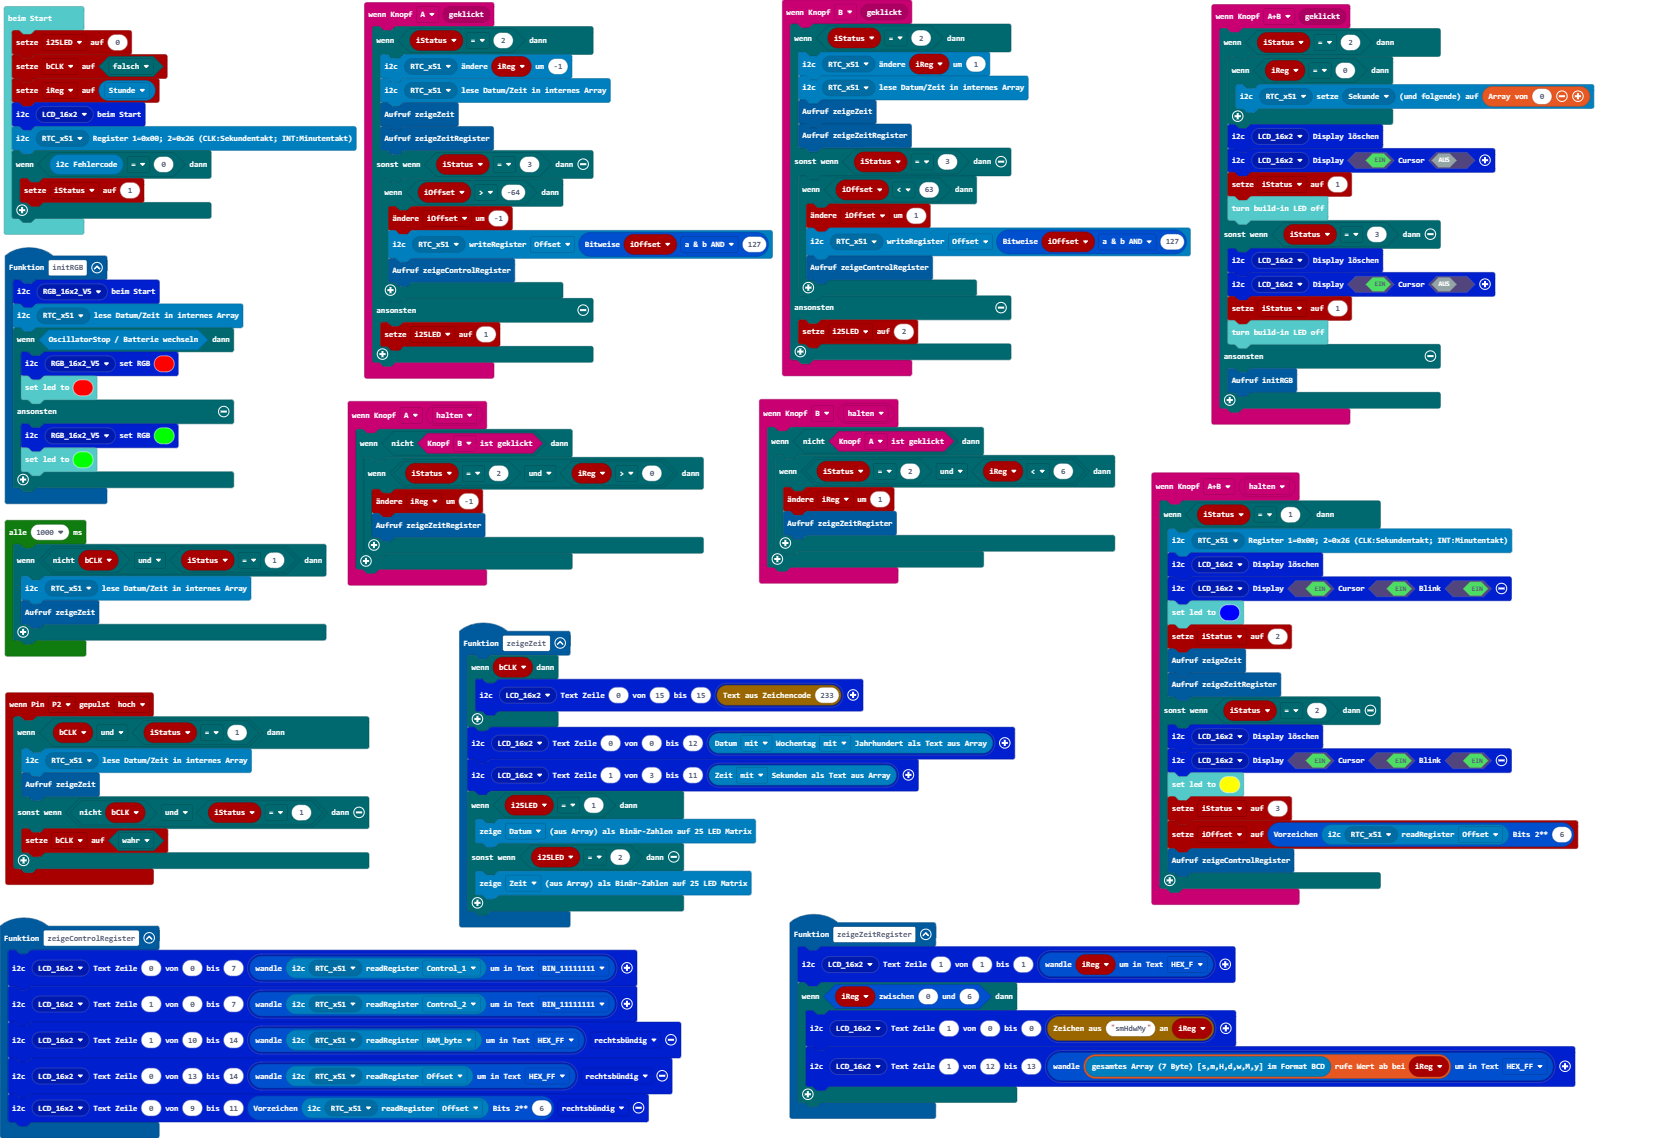
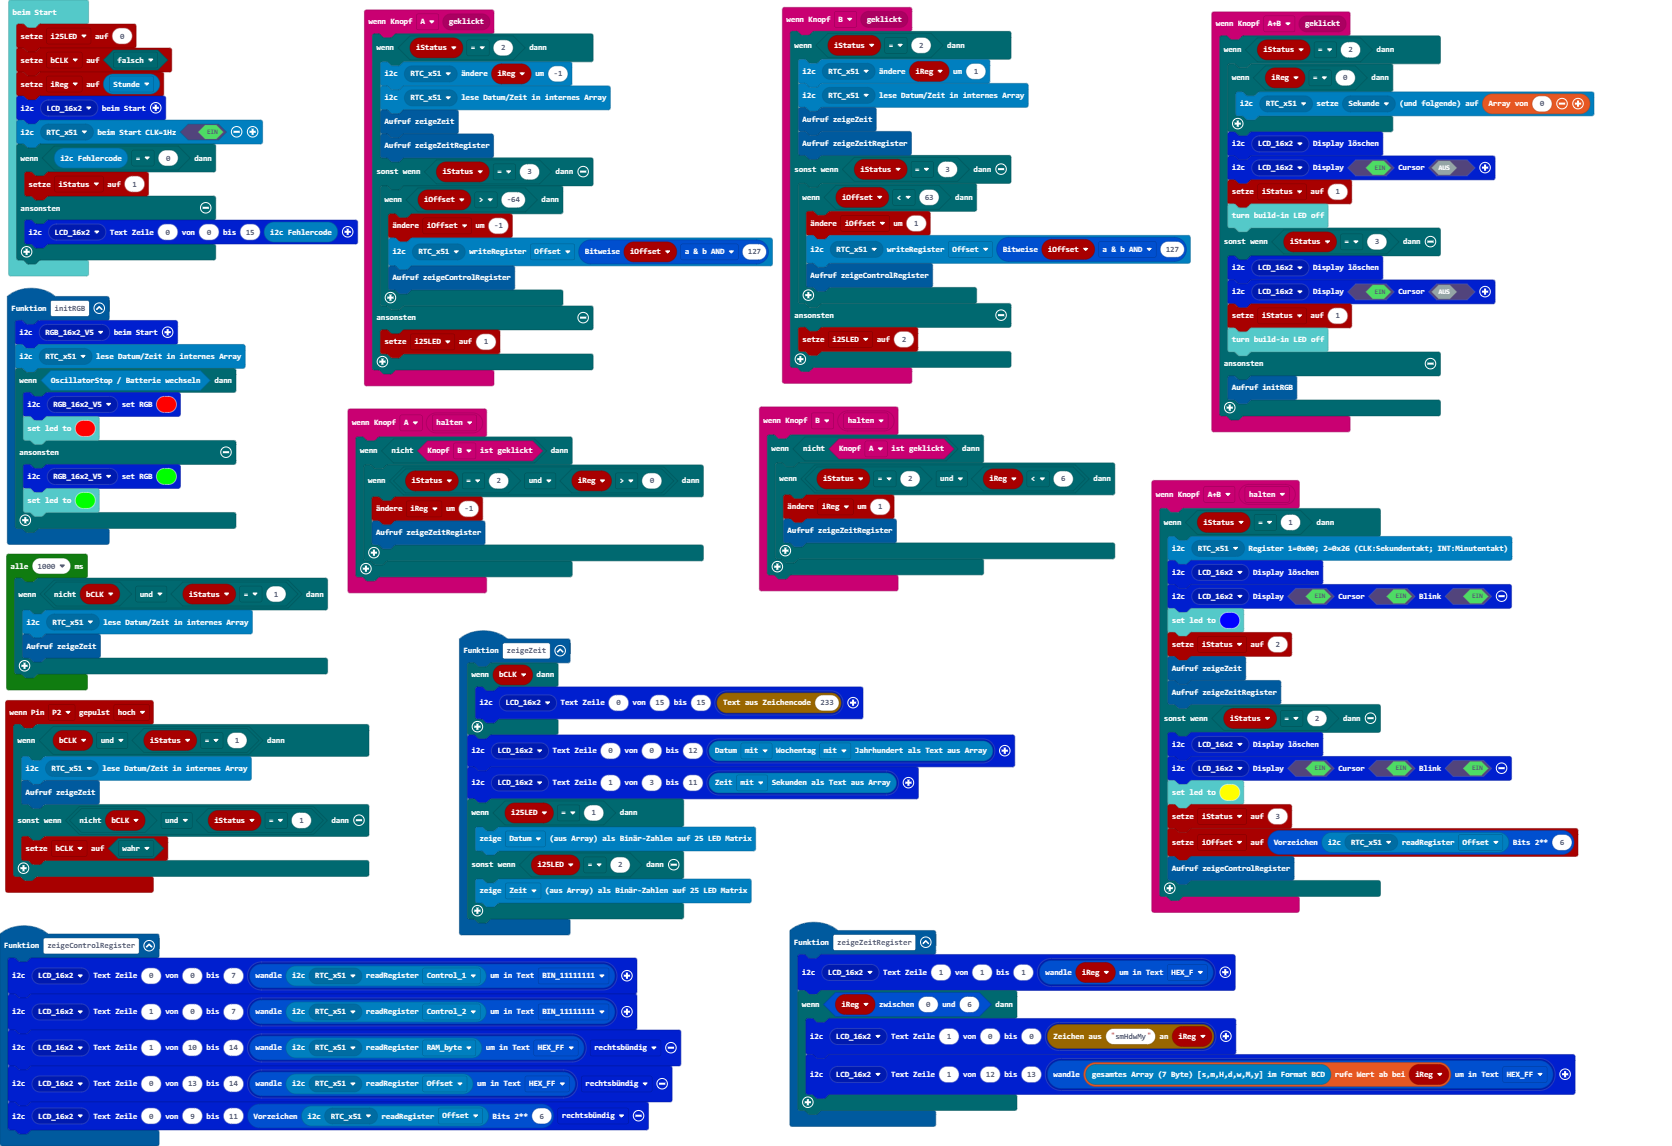
Aktualisiere pxt.json, main.blocks, main.ts

diff --git a/main.ts b/main.ts
@@ -136,9 +136,11 @@ i25LED = 0
 bCLK = false
 iReg = rtcpcf85063tp.rtcpcf85063tp_eRegister(rtcpcf85063tp.eRegister.Stunde)
 lcd16x2rgb.initLCD(lcd16x2rgb.lcd16x2_eADDR(lcd16x2rgb.eADDR_LCD.LCD_16x2))
-rtcpcf85063tp.initRegister(rtcpcf85063tp.rtcpcf85063tp_eADDR(rtcpcf85063tp.eADDR.RTC_x51))
+rtcpcf85063tp.beimStart(rtcpcf85063tp.rtcpcf85063tp_eADDR(rtcpcf85063tp.eADDR.RTC_x51), true)
 if (rtcpcf85063tp.i2cError() == 0) {
     iStatus = 1
+} else {
+    lcd16x2rgb.writeText(lcd16x2rgb.lcd16x2_eADDR(lcd16x2rgb.eADDR_LCD.LCD_16x2), 0, 0, 15, rtcpcf85063tp.i2cError())
 }
 loops.everyInterval(1000, function () {
     if (!(bCLK) && iStatus == 1) {
